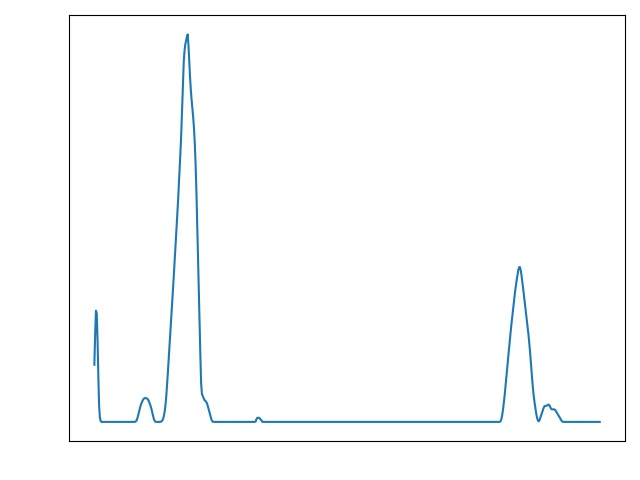
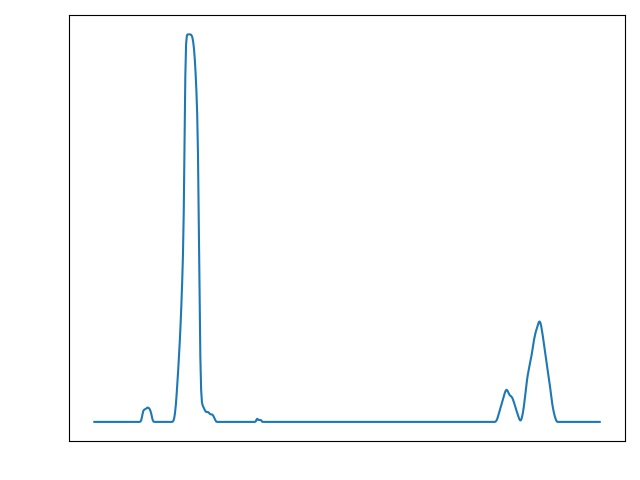
README updated (frame_with_histogram)

diff --git a/README.md b/README.md
@@ -34,6 +34,11 @@
 *Birdseye*
 <br /><br />
 
+![Histogram Plot](README_media/Histogram_Plot_screenshot.png "Histogram Plot")
+<br />
+*Histogram Plot on Frame*
+<br /><br />
+
 ![Sliding Windows](README_media/Sliding_Windows_screenshot.png "Sliding Windows")
 <br />
 *Sliding Windows*
